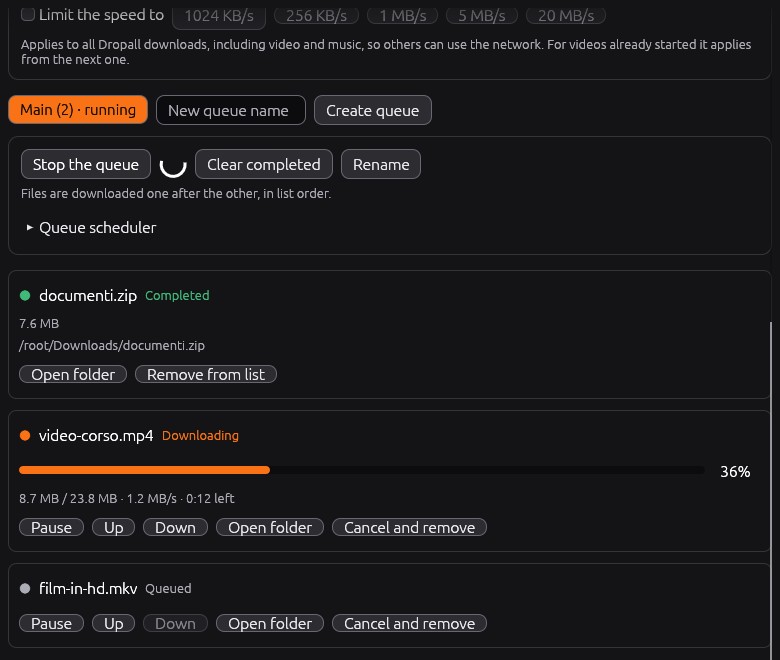
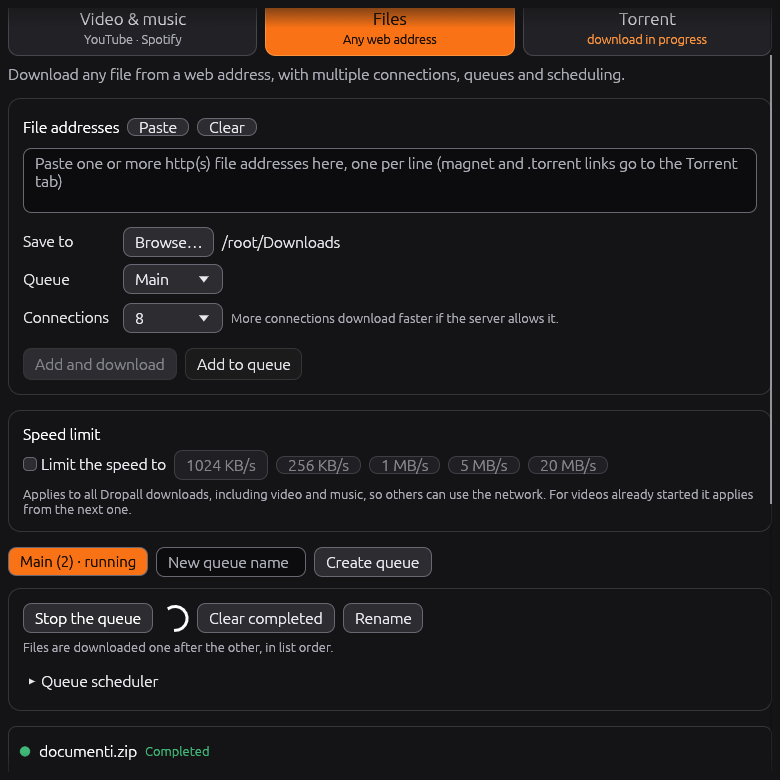
update ui and various fix

diff --git a/src/app.rs b/src/app.rs
@@ -138,6 +138,48 @@ pub(crate) fn paste_fallback(ctx: &egui::Context, resp: &egui::Response) {
     }
 }
 
+/// Menu del tasto destro per un campo di testo: Taglia, Copia, Incolla, Seleziona tutto, Svuota.
+/// Funziona anche dove la scorciatoia da tastiera non arriva (alcune tastiere, touchpad).
+pub(crate) fn edit_menu(resp: &egui::Response, text: &mut String) {
+    let id = resp.id;
+    resp.context_menu(|ui| {
+        let ctx = ui.ctx().clone();
+        let refocus = |ctx: &egui::Context| ctx.memory_mut(|m| m.request_focus(id));
+        if ui.button(tr!("Taglia", "Cut")).clicked() {
+            refocus(&ctx);
+            ctx.send_viewport_cmd(egui::ViewportCommand::RequestCut);
+            ui.close();
+        }
+        if ui.button(tr!("Copia", "Copy")).clicked() {
+            refocus(&ctx);
+            ctx.send_viewport_cmd(egui::ViewportCommand::RequestCopy);
+            ui.close();
+        }
+        if ui.button(tr!("Incolla", "Paste")).clicked() {
+            refocus(&ctx);
+            ctx.send_viewport_cmd(egui::ViewportCommand::RequestPaste);
+            ui.close();
+        }
+        if ui.button(tr!("Seleziona tutto", "Select all")).clicked() {
+            refocus(&ctx);
+            if let Some(mut st) = egui::TextEdit::load_state(&ctx, id) {
+                let end = text.chars().count();
+                st.cursor.set_char_range(Some(egui::text::CCursorRange::two(
+                    egui::text::CCursor::new(0),
+                    egui::text::CCursor::new(end),
+                )));
+                st.store(&ctx, id);
+            }
+            ui.close();
+        }
+        ui.separator();
+        if ui.button(tr!("Svuota", "Clear")).clicked() {
+            text.clear();
+            ui.close();
+        }
+    });
+}
+
 pub struct App {
     cfg: Config,
     tab: Tab,
@@ -554,8 +596,8 @@ impl eframe::App for App {
 
 fn card<R>(ui: &mut egui::Ui, add: impl FnOnce(&mut egui::Ui) -> R) -> R {
     egui::Frame::group(ui.style())
-        .corner_radius(10)
-        .inner_margin(12)
+        .corner_radius(12)
+        .inner_margin(14)
         .show(ui, |ui| {
             ui.set_width(ui.available_width());
             add(ui)
@@ -563,42 +605,64 @@ fn card<R>(ui: &mut egui::Ui, add: impl FnOnce(&mut egui::Ui) -> R) -> R {
         .inner
 }
 
+/// Riquadro per gli elenchi vuoti: dice a parole cosa fare, senza essere solo grigio.
+fn empty_state(ui: &mut egui::Ui, title: &str, body: &str) {
+    card(ui, |ui| {
+        ui.vertical_centered(|ui| {
+            ui.add_space(6.0);
+            ui.label(RichText::new(title).size(18.0).strong());
+            ui.label(RichText::new(body).color(ui.visuals().weak_text_color()));
+            ui.add_space(6.0);
+        });
+    });
+}
+
 impl App {
-    /// Schede in alto: "Video e musica" / "Download manager".
+    /// Schede in alto: tre riquadri uguali con titolo e una riga che spiega a cosa servono.
     fn tab_bar(&mut self, ui: &mut egui::Ui) {
+        let gap = ui.spacing().item_spacing.x;
+        let w = ((ui.available_width() - 2.0 * gap) / 3.0).max(90.0);
         ui.horizontal(|ui| {
-            for (tab, label) in [
-                (Tab::Media, tr!("Video e musica", "Video & music")),
+            for (tab, title, sub) in [
+                (
+                    Tab::Media,
+                    tr!("Video e musica", "Video & music"),
+                    "YouTube · Spotify",
+                ),
                 (
                     Tab::Manager,
-                    tr!("File (Download manager)", "Files (Download manager)"),
+                    tr!("File", "Files"),
+                    tr!("Qualsiasi indirizzo web", "Any web address"),
                 ),
-                (Tab::Torrent, "Torrent"),
+                (
+                    Tab::Torrent,
+                    "Torrent",
+                    tr!("Magnet · file .torrent", "Magnet · .torrent files"),
+                ),
             ] {
                 let selected = self.tab == tab;
-                let text = RichText::new(format!("  {label}  "))
-                    .size(17.0)
-                    .strong()
-                    .color(if selected {
-                        ON_ACCENT
-                    } else {
-                        ui.visuals().text_color()
-                    });
-                if accent_toggle(ui, selected, text).clicked() {
+                let busy = match tab {
+                    Tab::Media => self.running,
+                    Tab::Manager => self.dm.any_active(),
+                    Tab::Torrent => self.hub.any_active(),
+                };
+                // l'attività si dice a parole (non solo col colore) sotto il titolo
+                let sub = if busy && !selected {
+                    tr!("download in corso", "download in progress")
+                } else {
+                    sub
+                };
+                let sub_color = if busy {
+                    ACCENT_LIGHT
+                } else {
+                    ui.visuals().weak_text_color()
+                };
+                if accent_tile(ui, selected, title, sub, sub_color, egui::vec2(w, 56.0)).clicked() {
                     self.tab = tab;
                 }
             }
-            if (self.dm.any_active() && self.tab != Tab::Manager)
-                || (self.hub.any_active() && self.tab != Tab::Torrent)
-            {
-                ui.label(
-                    RichText::new(tr!("download in corso", "download in progress"))
-                        .small()
-                        .color(ACCENT_LIGHT),
-                );
-            }
         });
-        ui.separator();
+        ui.add_space(2.0);
         let hint = match self.tab {
             Tab::Media => tr!(
                 "Incolla il link di un video, di una playlist o di un brano di YouTube o Spotify.",
@@ -618,19 +682,15 @@ impl App {
 
     fn header(&self, ui: &mut egui::Ui) {
         ui.horizontal(|ui| {
-            ui.add(egui::Image::new((self.logo.id(), egui::vec2(46.0, 46.0))).alt_text("Dropall"));
+            ui.add(egui::Image::new((self.logo.id(), egui::vec2(44.0, 44.0))).alt_text("Dropall"));
             ui.vertical(|ui| {
-                ui.label(RichText::new("Dropall").size(28.0).strong());
-                ui.label(
-                    RichText::new(tr!("Downloader universale", "Universal downloader"))
-                        .color(ui.visuals().weak_text_color()),
-                );
+                ui.add_space(2.0);
+                ui.label(RichText::new("Dropall").size(26.0).strong());
                 ui.label(
                     RichText::new(tr!(
-                        "Video e musica · file da qualsiasi sito · torrent e magnet",
-                        "Video & music · files from any site · torrents & magnets"
+                        "Il downloader universale: video, musica, file e torrent",
+                        "The universal downloader: video, music, files and torrents"
                     ))
-                    .small()
                     .color(ui.visuals().weak_text_color()),
                 );
             });
@@ -773,7 +833,12 @@ impl App {
             let mut paste = false;
             let mut link_label = None;
             ui.horizontal(|ui| {
-                link_label = Some(ui.label(RichText::new("Link").strong()).id);
+                link_label = Some(
+                    ui.label(
+                        RichText::new(tr!("1. Incolla il link", "1. Paste the link")).strong(),
+                    )
+                    .id,
+                );
                 paste = ui.small_button(tr!("Incolla", "Paste")).clicked();
                 if ui.small_button(tr!("Svuota", "Clear")).clicked() {
                     self.input.clear();
@@ -794,16 +859,7 @@ impl App {
                 None => resp,
             };
             paste_fallback(ui.ctx(), &resp);
-            resp.context_menu(|ui| {
-                if ui.button(tr!("Incolla", "Paste")).clicked() {
-                    paste = true;
-                    ui.close();
-                }
-                if ui.button(tr!("Svuota", "Clear")).clicked() {
-                    self.input.clear();
-                    ui.close();
-                }
-            });
+            edit_menu(&resp, &mut self.input);
             if paste {
                 // il testo incollato va al campo che ha il focus: glielo ridiamo
                 ui.memory_mut(|m| m.request_focus(field_id));
@@ -815,6 +871,13 @@ impl App {
 
     fn options_card(&mut self, ui: &mut egui::Ui, ctx: &egui::Context) {
         card(ui, |ui| {
+            ui.label(
+                RichText::new(tr!(
+                    "2. Scegli cosa scaricare",
+                    "2. Choose what to download"
+                ))
+                .strong(),
+            );
             ui.horizontal(|ui| {
                 for (mode, label) in [
                     (Mode::Video, "  Video  "),
@@ -1024,7 +1087,7 @@ impl App {
                         .color(text_color),
                 )
                 .fill(fill)
-                .min_size(egui::vec2(0.0, 38.0));
+                .min_size(egui::vec2(200.0, 44.0));
                 // niente add_enabled: egui sfumerebbe ancora il testo; basta non rendere cliccabile il pulsante
                 let btn = btn.sense(if enabled {
                     egui::Sense::click()
@@ -1212,6 +1275,68 @@ fn accent_toggle(
     ui.visuals_mut().selection.bg_fill = old.0;
     ui.visuals_mut().selection.stroke = old.1;
     r
+}
+
+/// Riquadro-scheda di dimensione fissa: titolo e riga di aiuto centrati, arancione pieno
+/// quando è selezionato. Lo screen reader legge "titolo, aiuto" e sa se la scheda è attiva.
+fn accent_tile(
+    ui: &mut egui::Ui,
+    selected: bool,
+    title: &str,
+    sub: &str,
+    sub_color: Color32,
+    size: egui::Vec2,
+) -> egui::Response {
+    let (rect, resp) = ui.allocate_exact_size(size, egui::Sense::click());
+    let label = format!("{title}, {sub}");
+    resp.widget_info(|| {
+        egui::WidgetInfo::selected(egui::Role::Tab, true, selected, &label)
+    });
+    if ui.is_rect_visible(rect) {
+        let (fill, stroke, c1, c2) = if selected {
+            (ACCENT, ACCENT_LIGHT, ON_ACCENT, ON_ACCENT)
+        } else if resp.hovered() {
+            (
+                Color32::from_rgb(58, 52, 48),
+                ACCENT,
+                ui.visuals().text_color(),
+                sub_color,
+            )
+        } else {
+            (
+                Color32::from_rgb(34, 34, 38),
+                Color32::from_rgb(70, 70, 78),
+                ui.visuals().text_color(),
+                sub_color,
+            )
+        };
+        let p = ui.painter();
+        p.rect(
+            rect,
+            10,
+            fill,
+            egui::Stroke::new(1.0, stroke),
+            egui::StrokeKind::Inside,
+        );
+        p.text(
+            rect.center() - egui::vec2(0.0, 9.0),
+            egui::Align2::CENTER_CENTER,
+            title,
+            egui::FontId::proportional(17.0),
+            c1,
+        );
+        p.text(
+            rect.center() + egui::vec2(0.0, 12.0),
+            egui::Align2::CENTER_CENTER,
+            sub,
+            egui::FontId::proportional(12.5),
+            c2,
+        );
+    }
+    if resp.hovered() {
+        ui.ctx().set_cursor_icon(egui::CursorIcon::PointingHand);
+    }
+    resp
 }
 
 fn load_logo(ctx: &egui::Context) -> egui::TextureHandle {

diff --git a/src/app/dm_tab.rs b/src/app/dm_tab.rs
@@ -99,6 +99,7 @@ impl App {
                     )),
             );
             super::paste_fallback(ui.ctx(), &resp);
+            super::edit_menu(&resp, &mut self.dm_ui.input);
             if let Some(id) = label_id {
                 resp.labelled_by(id);
             }
@@ -354,6 +355,8 @@ impl App {
                     .hint_text(tr!("Nome della nuova coda", "New queue name"))
                     .desired_width(150.0),
             );
+            super::paste_fallback(ui.ctx(), &r);
+            super::edit_menu(&r, &mut self.dm_ui.new_queue);
             let enter = r.lost_focus() && ui.input(|i| i.key_pressed(egui::Key::Enter));
             if ui.button(tr!("Crea coda", "Create queue")).clicked() || enter {
                 let name = std::mem::take(&mut self.dm_ui.new_queue);
@@ -459,12 +462,16 @@ impl App {
         // elenco dei download della coda
         let mine: Vec<&Item> = items.iter().filter(|i| i.queue == q.id).collect();
         if mine.is_empty() {
-            ui.label(
-                RichText::new(tr!(
-                    "Nessun download in questa coda. Incolla un indirizzo qui sopra e premi «Aggiungi».",
-                    "No downloads in this queue. Paste an address above and press “Add”."
-                ))
-                .color(ui.visuals().weak_text_color()),
+            super::empty_state(
+                ui,
+                tr!(
+                    "Nessun download in questa coda",
+                    "No downloads in this queue"
+                ),
+                tr!(
+                    "Incolla un indirizzo qui sopra e premi «Aggiungi».",
+                    "Paste an address above and press “Add”."
+                ),
             );
             return;
         }

diff --git a/src/app/torrent_tab.rs b/src/app/torrent_tab.rs
@@ -116,6 +116,7 @@ impl App {
                     )),
             );
             super::paste_fallback(ui.ctx(), &resp);
+            super::edit_menu(&resp, &mut self.tor_ui.input);
             if let Some(id) = label_id {
                 resp.labelled_by(id);
             }
@@ -300,12 +301,13 @@ impl App {
     fn torrent_list(&mut self, ui: &mut egui::Ui, items: &[TorrentItem]) {
         if items.is_empty() {
             ui.add_space(6.0);
-            ui.label(
-                RichText::new(tr!(
-                    "Nessun torrent. Incolla un link magnet qui sopra o apri un file .torrent per iniziare.",
-                    "No torrents yet. Paste a magnet link above or open a .torrent file to start."
-                ))
-                .color(ui.visuals().weak_text_color()),
+            super::empty_state(
+                ui,
+                tr!("Nessun torrent", "No torrents yet"),
+                tr!(
+                    "Incolla un link magnet qui sopra o apri un file .torrent per iniziare.",
+                    "Paste a magnet link above or open a .torrent file to start."
+                ),
             );
             return;
         }

diff --git a/.github/release-notes.md b/.github/release-notes.md
@@ -10,7 +10,8 @@ Videos, music, files and torrents: paste a link, press a button, and Dropall doe
 
 ### What's new
 - **Torrents are here.** There's a new “Torrent” tab. Paste a magnet link or a `.torrent` address, open a `.torrent` file from your computer (or drag it onto the window), or just click a magnet link in your browser. Dropall opens, or comes to the front if it's already running, and starts it. Torrents pick up where they left off after a restart, and you can keep sharing them afterwards. On Windows the installer can set Dropall as the app for magnet links and `.torrent` files; on Linux the menu entry does it. On macOS, use paste, the open button or drag and drop.
-- **Easier to add torrents.** A “Browse…” button right above the link box lets you pick `.torrent` files (the folder button is now called “Change folder…”), and Ctrl+V now pastes into every link box even where it used to do nothing.
+- **Easier to add torrents.** A “Browse…” button right above the link box lets you pick `.torrent` files (the folder button is now called “Change folder…”), and Ctrl+V now pastes into every link box even where it used to do nothing. Right-clicking any text box now offers Cut, Copy, Paste, Select all and Clear.
+- **A fresher, clearer look.** Three big tabs with a line saying what each is for, a more compact header, numbered steps on the Video & music tab (1. paste the link, 2. choose what to download), a bigger Download button and friendlier empty lists. Everything still works with screen readers: tabs are announced as tabs, with their description and whether they are selected.
 - **Keep downloading while it's out of the way.** Minimize Dropall and it tucks itself into the system tray; videos, files and torrents keep downloading. Click the icon to bring it back. You can turn this off at the bottom of the window.
 - **See how far along you are.** Every progress bar now shows its percentage.
 - **Easier to understand.** Three tabs (“Video & music”, “Files”, “Torrent”), each with a short line saying what it's for.
